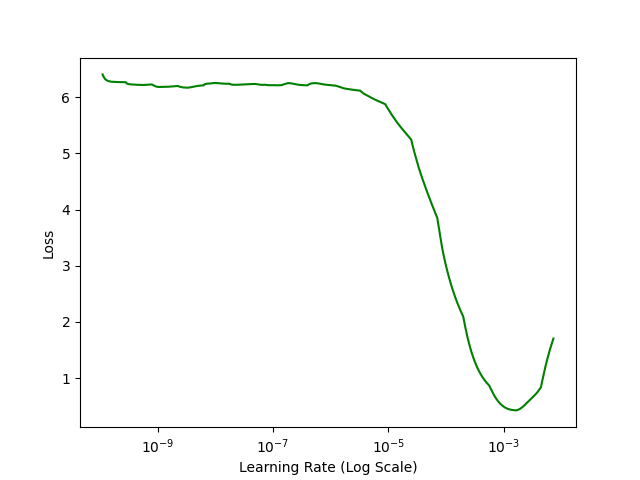
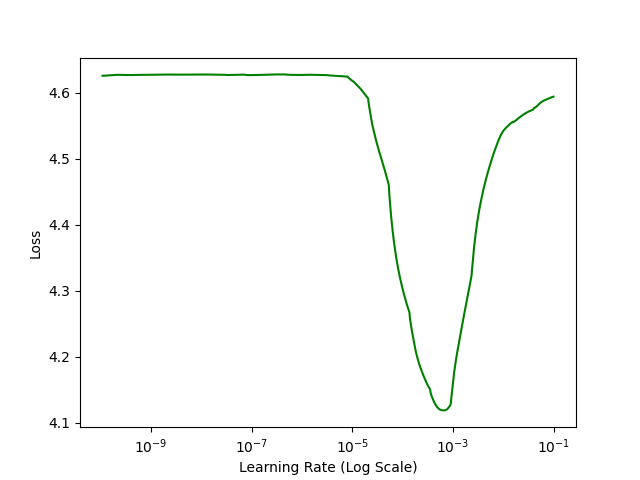
wip

diff --git a/trainer.py b/trainer.py
@@ -20,7 +20,6 @@ tf.random.set_seed(42)
 
 CLRS = ['triangular', 'triangular2', 'exp']
 
-EPOCHS = 50
 
 
 def parse_arguments():
@@ -34,6 +33,8 @@ def parse_arguments():
     parser.add_argument('--dropout', type=float, const=0.5, default=0.5, nargs='?', help='Dropout rate')
     parser.add_argument('--config', type=str, const='config.yml', default='config.yml', nargs='?', help='Configuration file')
     parser.add_argument('--mp', default=False, action='store_true', help='Enable mixed precision operations (16bit-32bit)')
+    parser.add_argument('--da', default=False, action='store_true', help='Enable Data Augmentation')
+    parser.add_argument('--epoch', type=int, const=50, default=50, nargs='?', help='Set the number of epochs')
 
     
     return parser.parse_args()
@@ -64,14 +65,23 @@ if __name__ == '__main__':
 
     # Get the optimizer
     optimizer = models.OPTIMIZERS[args.opt]['get']()()
+    learning_rate = models.OPTIMIZERS[args.opt]['lr']
 
     # Download and preprocess the dataset with data augmentation
-    train_preprocessed, test_preprocessed, validation_preprocessed, train_cardinality, validation_cardinality = Processing(target_size=target_size,
-                                                                                                                            batch_size=args.batch,
-                                                                                                                            shuffle=True, 
-                                                                                                                            brightness_delta=0, 
-                                                                                                                            flip=False, 
-                                                                                                                            rotation=0).get_dataset()
+    p = None
+    if args.da:
+        p = Processing(target_size=target_size,
+                        batch_size=args.batch,
+                        shuffle=True)
+    # or without data augmentation
+    else:
+        p = Processing(target_size=target_size,
+                        batch_size=args.batch,
+                        shuffle=True, 
+                        brightness_delta=0, 
+                        flip=False, 
+                        rotation=0)
+    train_preprocessed, test_preprocessed, validation_preprocessed, train_cardinality, validation_cardinality = p.get_dataset()
 
     
     # Finalize the model
@@ -94,13 +104,13 @@ if __name__ == '__main__':
 
     # Define the Cyclic Learnin Rate
     clr = CyclicLR(mode=args.clr, 
-                    base_lr=1e-4, 
-                    max_lr=1e-2, 
+                    base_lr=learning_rate[0], 
+                    max_lr=learning_rate[1],
                     step_size=stepSize)
 
     # Defien the Early Stopping strategy
     es = EarlyStopping(monitor='val_loss', 
-                        patience=20, 
+                        patience=10, 
                         mode='min', 
                         #restore_best_weights=True, 
                         min_delta=0.005,
@@ -108,12 +118,12 @@ if __name__ == '__main__':
 
     # Train
     history = model.fit(train_preprocessed,
-                                  epochs=EPOCHS,
+                                  epochs=args.epoch,
                                   verbose=1,
                                   steps_per_epoch=step_size_train,
                                   validation_data=validation_preprocessed,
                                   validation_steps=step_size_valid,
-                                  callbacks=[es, clr, mcp_save_acc, mcp_save_loss],
+                                  callbacks=[clr]#, mcp_save_acc, mcp_save_loss],
                                   #workers=64,
                                   #use_multiprocessing=False,
                                   #max_queue_size=32
@@ -129,7 +139,7 @@ if __name__ == '__main__':
     plt.ylabel('Accuracy')
     plt.xlabel('Epoch')
     plt.legend(['Train', 'Test'], loc='upper left')
-    plt.savefig(utils.get_path(config['paths']['plot']['accuracy'].format(args.arch, args.batch, args.step, args.opt, args.clr)))
+    plt.savefig(utils.get_path(config['paths']['plot']['accuracy'].format(args.arch, args.batch, args.step, args.opt, args.clr, args.da)))
 
     plt.clf()
 
@@ -140,7 +150,7 @@ if __name__ == '__main__':
     plt.ylabel('Loss')
     plt.xlabel('Epoch')
     plt.legend(['Train', 'Test'], loc='upper right')
-    plt.savefig(utils.get_path(config['paths']['plot']['loss'].format(args.arch, args.batch, args.step, args.opt, args.clr)))
+    plt.savefig(utils.get_path(config['paths']['plot']['loss'].format(args.arch, args.batch, args.step, args.opt, args.clr, args.da)))
 
 
 

diff --git a/models.py b/models.py
@@ -21,8 +21,14 @@ ACTIVATION = 'softmax'
 ARCHITECTURES = {}
 
 OPTIMIZERS = {
-    'Adam': {'get': lambda : lambda : Adam(learning_rate=0.001)}, 
-    'SGD': {'get': lambda : lambda : SGD(learning_rate=0.001, momentum=0.9)}
+    'Adam': {
+        'get': lambda : lambda : Adam(learning_rate=1e-6),
+        'lr': [1e-6, 5e-4]
+    }, 
+    'SGD': {
+        'get': lambda : lambda : SGD(learning_rate=0.001, momentum=0.9),
+        'lr': [1e-5, 1e-3]
+        }
     }
 
 def last_conv(model):
